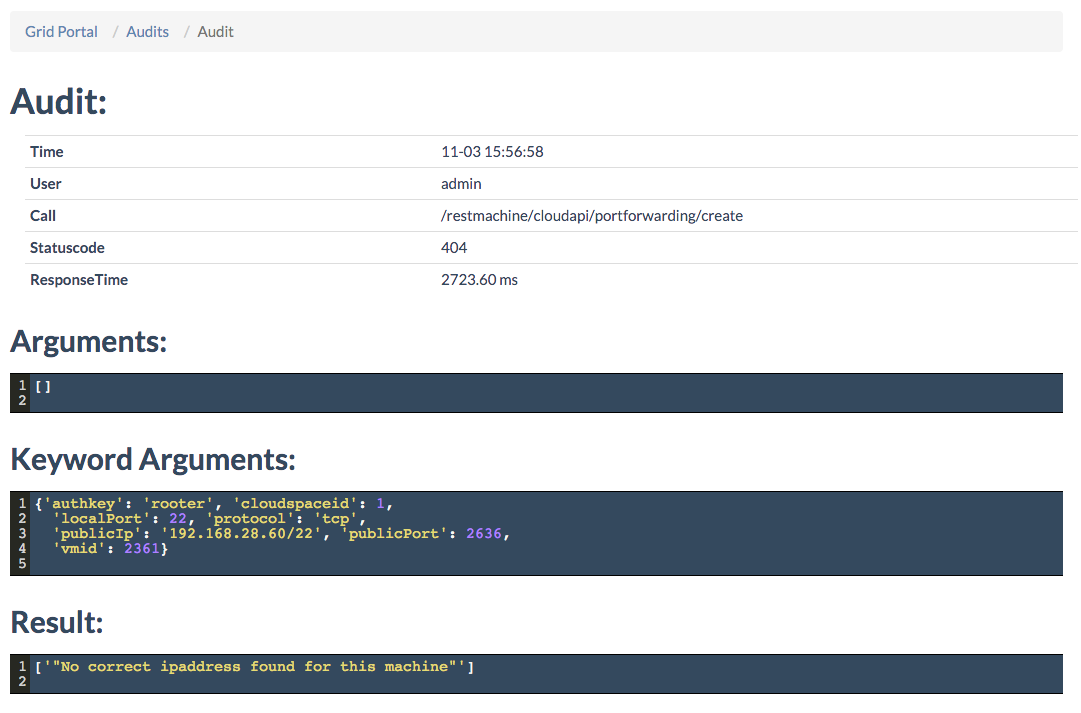
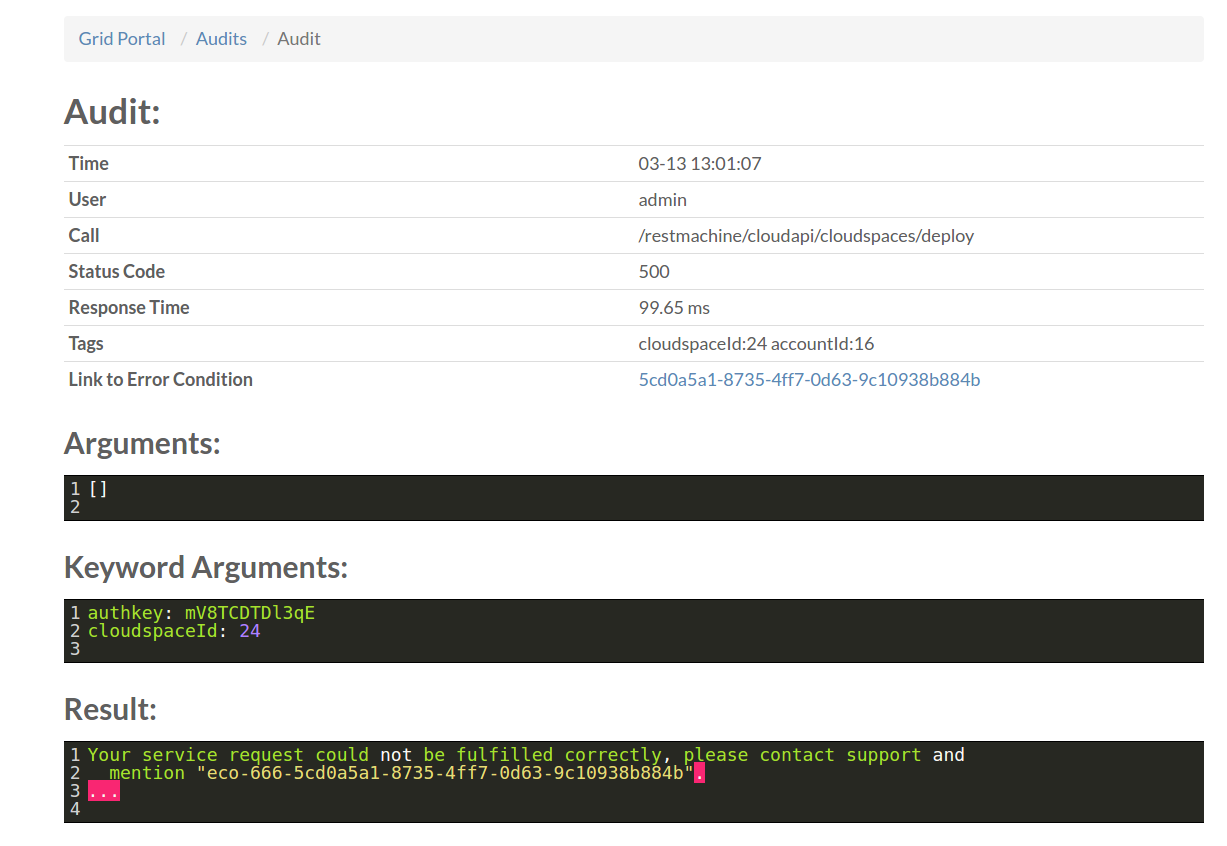
audit docs update (#807)

diff --git a/docs/GridPortal/Audits/Audits.md b/docs/GridPortal/Audits/Audits.md
@@ -9,3 +9,7 @@ As in most other tables your can search and filter on all the columns.
 Clicking the **Time** time stamp brings you to the **Audit Details** page:
 
 ![[]](AuditDetails.png)
+
+By clicking the **Link to Error Condition** it is possible to view the related **Error Condition** page if available:
+
+![[]](ErrorCondition.png)
